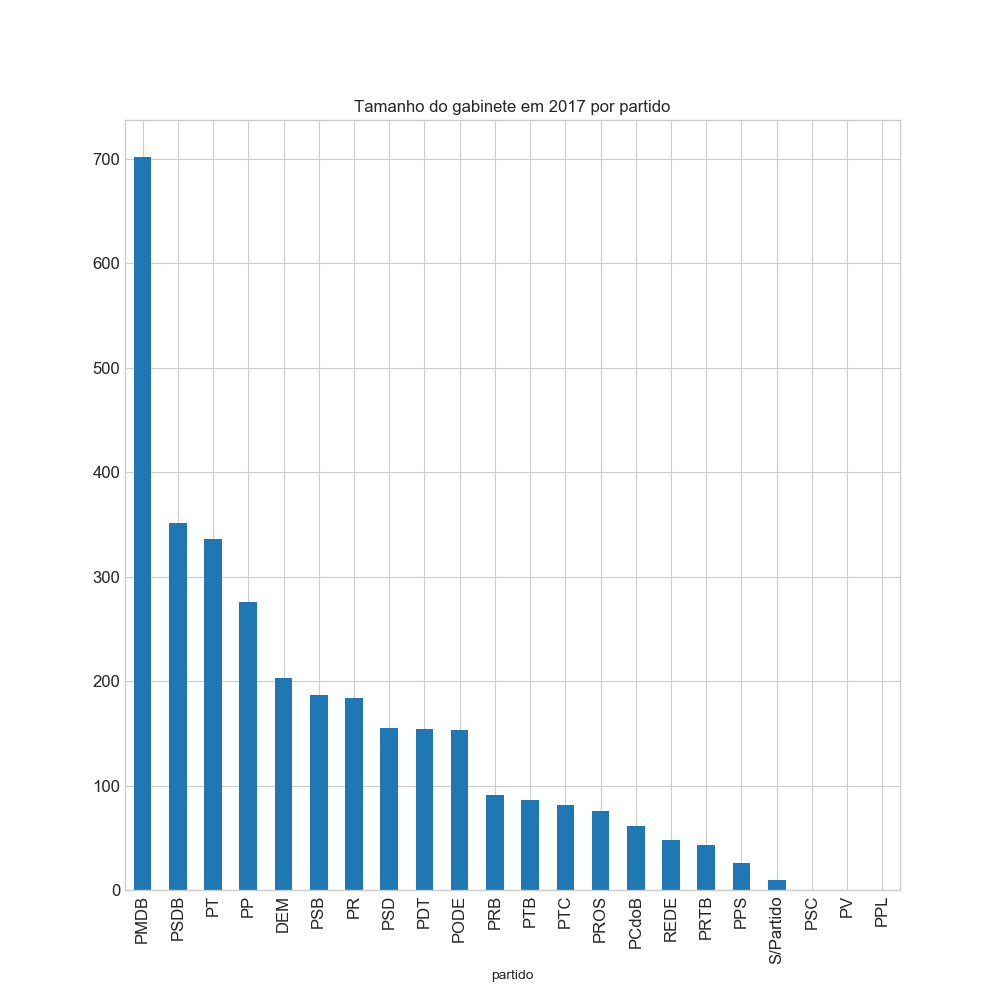
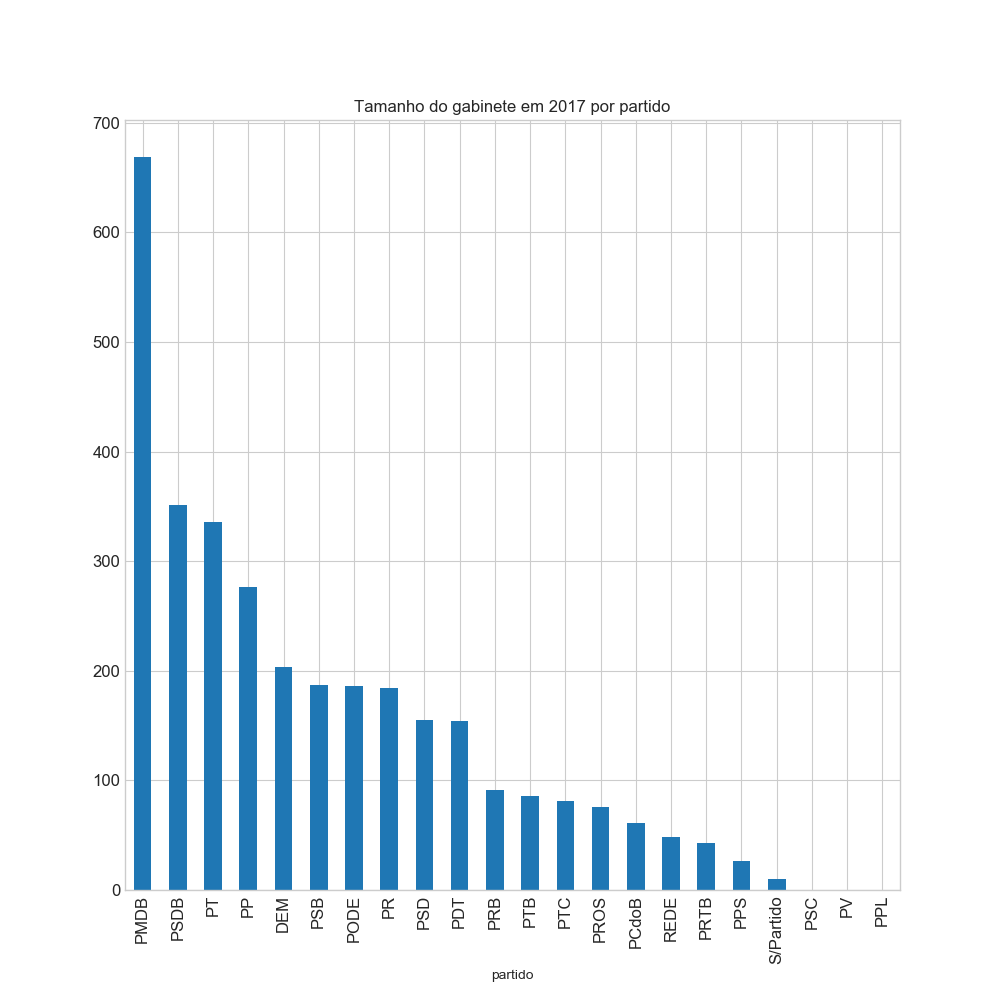
Atualização de dados do Senado Mudança de partido de Rose Freitas (PMDB-PODE)

diff --git a/index.html b/index.html
@@ -21,9 +21,9 @@
       <div class="row"><b class="SenadoSubTitle">Informações de despesas de senadores</b><br></div>
       <div class="row"><b class="SenadoSubTitle">Dados coletados em 
 <!--Data-->       
-07/05/2018 às 
+08/05/2018 às 
 <!--Hora-->
-09:27:38      </b><br></div>
+10:35:29      </b><br></div>
       <br>
       <div class="TextoImagem">
         <center>
@@ -850,7 +850,7 @@
               <td align='left' class='gastos' name='2331'>R$ 1.138.361,21</td>
               <td align='left'>Titular</td>
               <td align='middle'>ES</td>
-              <td align='left'>PMDB</td>
+              <td align='left'>PODE</td>
               <td align='right'>33 pessoas</td>
               <td align='right'>0 meses</td>
             </tr>
